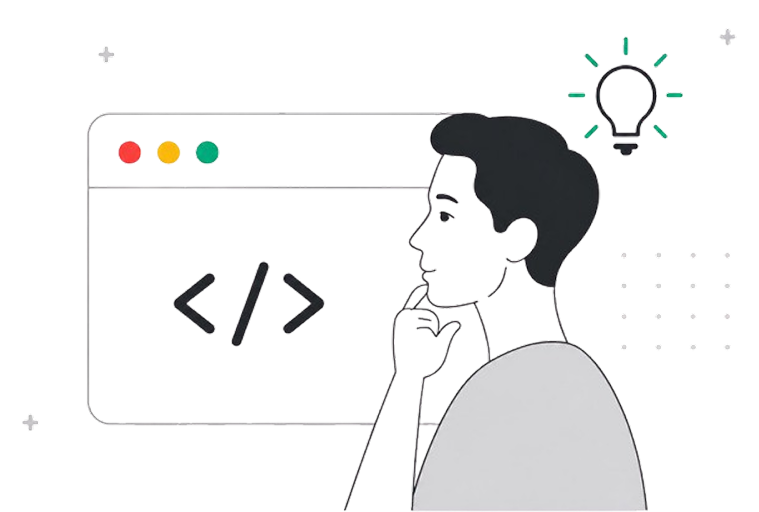
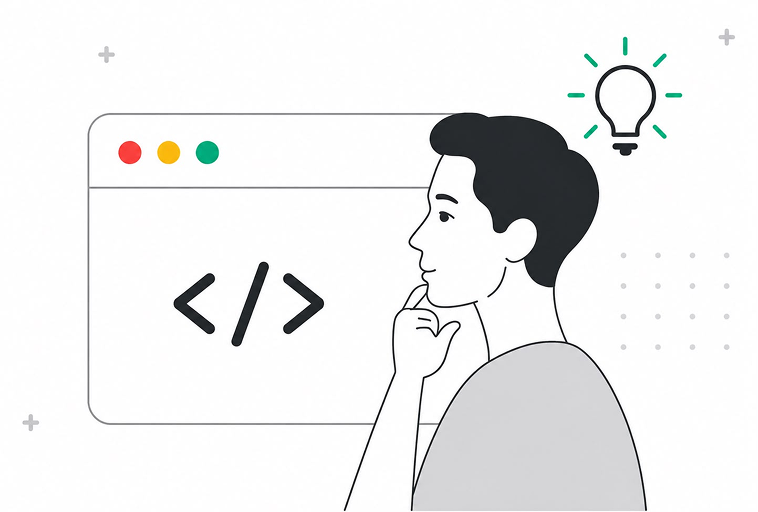
feat: update InstructionsIntroFlow with new images and sound effects

diff --git a/src/components/programming-basic/sections/InstructionsIntroFlow.tsx b/src/components/programming-basic/sections/InstructionsIntroFlow.tsx
@@ -1,19 +1,22 @@
 "use client";
 
 import React, { useState } from "react";
+import Image from "next/image";
 import { Poppins } from "next/font/google";
 import {
   ChevronLeft,
   Bookmark,
   ArrowRight,
-  CheckCircle2,
-  XCircle,
+  Check,
+  X,
   Play,
   Network,
   Sparkles,
+  Sparkle,
 } from "lucide-react";
 import { INSTRUCTIONS_INTRO_SLIDES } from "@/lib/constants/instructionsIntro";
 import { ThemeToggle } from "@/components/ui/theme-toggle";
+import { useSound } from "@/hooks/useSound";
 
 const poppins = Poppins({
   subsets: ["latin"],
@@ -31,7 +34,7 @@ interface InstructionsIntroFlowProps {
 function TeacherIllustration({ compact = false }: { compact?: boolean }) {
   return (
     <div
-      className={`relative w-full rounded-2xl overflow-hidden shadow-sm ${compact ? "h-48 md:h-56" : "aspect-[390/360]"}`}
+      className={`relative w-full rounded-2xl overflow-hidden shadow-sm ${compact ? "h-36 md:h-40" : "aspect-[390/360]"}`}
     >
       {/* eslint-disable-next-line @next/next/no-img-element */}
       <img
@@ -60,6 +63,7 @@ export function InstructionsIntroFlow({
   const [selected, setSelected] = useState<number | null>(null);
   const [checked, setChecked] = useState(false);
   const [bookmarked, setBookmarked] = useState(false);
+  const triggerSound = useSound(true);
 
   const total = INSTRUCTIONS_INTRO_SLIDES.length;
   const slide = INSTRUCTIONS_INTRO_SLIDES[index];
@@ -93,13 +97,24 @@ export function InstructionsIntroFlow({
     if (isQuiz && !checked) {
       if (selected === null) return;
       setChecked(true);
+      triggerSound(isCorrect ? "win" : "lose");
+      return;
+    }
+    if (isQuiz && checked && !isCorrect) {
+      // Wrong answer: let the learner try again instead of moving on.
+      setSelected(null);
+      setChecked(false);
       return;
     }
     goNext();
   };
 
   const primaryLabel =
-    slide.kind === "teacher-quiz" && !checked ? slide.submitLabel : slide.cta;
+    slide.kind === "teacher-quiz" && !checked
+      ? slide.submitLabel
+      : isQuiz && checked && !isCorrect
+        ? "Try Again"
+        : slide.cta;
   const feedbackTitle =
     slide.kind === "teacher-quiz"
       ? isCorrect
@@ -111,11 +126,11 @@ export function InstructionsIntroFlow({
 
   return (
     <main
-      className={`${poppins.className} min-h-screen w-full max-w-full overflow-x-hidden bg-background text-foreground flex flex-col items-center transition-colors duration-200`}
+      className={`${poppins.className} h-screen w-full max-w-full overflow-hidden bg-background text-foreground flex flex-col items-center transition-colors duration-200`}
     >
-      <div className={`w-full max-w-md flex flex-col grow px-4 py-4 ${isQuiz && checked ? "pb-56" : "pb-32"}`}>
-        {/* ── Header (same on every slide) ── */}
-        <header className="flex items-center justify-between gap-2.5 mb-5 select-none">
+      <div className="w-full max-w-md flex flex-col h-full">
+        {/* ── Header (same on every slide) — fixed height, never scrolls or gets covered ── */}
+        <header className="shrink-0 flex items-center justify-between gap-2.5 px-4 pt-4 pb-3 select-none">
           <button
             onClick={goBack}
             className="w-10 h-10 flex items-center justify-center rounded-lg bg-card border border-border text-foreground hover:bg-surface-strong transition-all active:scale-95 cursor-pointer shadow-xs"
@@ -163,8 +178,12 @@ export function InstructionsIntroFlow({
           </div>
         </header>
 
-        {/* ── Body ── */}
-        <div className="grow flex flex-col gap-4 select-none">
+        {/* ── Body — the only part that scrolls, so header/footer are always fully visible ── */}
+        <div
+          className="flex-1 min-h-0 overflow-y-auto px-4 scrollbar-none"
+          style={{ msOverflowStyle: "none" }}
+        >
+        <div className="flex flex-col gap-3 select-none min-h-full pb-3">
           {slide.kind === "cover" && (
             <div className="flex flex-col gap-3 text-center">
               <h1 className="text-2xl md:text-3xl font-semibold tracking-tight leading-tight text-balance">
@@ -172,12 +191,20 @@ export function InstructionsIntroFlow({
                 <span className="text-foreground">{slide.title}</span>
               </h1>
 
-              <div className="relative w-full h-36 bg-card rounded-2xl border border-border flex items-center justify-center overflow-hidden shadow-sm p-3">
-                {/* eslint-disable-next-line @next/next/no-img-element */}
-                <img
-                  src={slide.imageSrc}
+              <div className="relative w-full h-36 flex items-center justify-center overflow-hidden p-3">
+                <Image
+                  src={slide.imageLight}
                   alt=""
-                  className="h-full max-w-full object-contain"
+                  width={759}
+                  height={512}
+                  className="h-full w-auto max-w-full object-contain dark:hidden"
+                />
+                <Image
+                  src={slide.imageDark}
+                  alt=""
+                  width={743}
+                  height={512}
+                  className="hidden h-full w-auto max-w-full object-contain dark:block"
                 />
               </div>
 
@@ -195,17 +222,17 @@ export function InstructionsIntroFlow({
                 </p>
               </div>
 
-              <div className="w-full rounded-2xl bg-[#1A1C22] p-6 flex items-center gap-5 shadow-lg mt-1">
-                <div className="w-16 h-16 shrink-0 flex items-center justify-center">
+              <div className="w-full h-40 rounded-[8px] bg-[#1A1C22] p-6 flex items-center gap-5 shadow-lg mt-1">
+                <div className="w-16 h-40 shrink-0 flex items-center justify-center">
                   {/* eslint-disable-next-line @next/next/no-img-element */}
                   <img
                     src="/images/box.png"
                     alt=""
-                    className="w-full h-full object-contain"
+                    className="w-full h-[150px] object-contain"
                   />
                 </div>
                 <div className="text-left">
-                  <p className="text-sm text-white font-medium">
+                  <p className="text-[14px] text-white font-medium">
                     {slide.revealLabel}
                   </p>
                   <p className="text-sm text-[#BEBEBE] font-medium">about</p>
@@ -233,14 +260,14 @@ export function InstructionsIntroFlow({
 
           {slide.kind === "teacher-quiz" && (
             <>
-              <h1 className="text-2xl md:text-3xl font-semibold tracking-tight leading-tight text-center md:text-left">
+              <h1 className="text-xl md:text-2xl font-semibold tracking-tight leading-tight text-center md:text-left">
                 <span className="text-primary">{slide.highlightWord}</span>{" "}
                 <span className="text-foreground">{slide.title}</span>
               </h1>
 
               <TeacherIllustration compact />
 
-              <div className="flex flex-col gap-3">
+              <div className="flex flex-col gap-2">
                 {slide.options.map((opt, idx) => {
                   const isSelected = selected === idx;
                   const Icon = opt.icon;
@@ -278,20 +305,23 @@ export function InstructionsIntroFlow({
                       key={opt.text}
                       type="button"
                       disabled={checked}
-                      onClick={() => setSelected(idx)}
-                      className={`w-full flex items-center justify-between p-4 rounded-xl border transition-all duration-200 text-left shadow-xs cursor-pointer active:scale-99 ${cardBorder}`}
+                      onClick={() => {
+                        triggerSound("tap");
+                        setSelected(idx);
+                      }}
+                      className={`w-full flex items-center justify-between p-3 rounded-xl border transition-all duration-200 text-left shadow-xs cursor-pointer active:scale-99 ${cardBorder}`}
                     >
-                      <div className="flex items-center gap-3.5 min-w-0 grow">
+                      <div className="flex items-center gap-3 min-w-0 grow">
                         <div
-                          className={`w-10 h-10 rounded-full flex items-center justify-center shrink-0 ${iconWrap}`}
+                          className={`w-9 h-9 rounded-full flex items-center justify-center shrink-0 ${iconWrap}`}
                         >
-                          <Icon className="w-5 h-5" />
+                          <Icon className="w-4 h-4" />
                         </div>
                         <div className="flex flex-col min-w-0 pr-2">
-                          <span className="font-medium text-base leading-tight text-foreground">
+                          <span className="font-medium text-sm leading-tight text-foreground">
                             {opt.text}
                           </span>
-                          {!checked && (
+                          {!(checked && isSelected) && (
                             <span className="text-xs text-muted-foreground font-normal mt-0.5 line-clamp-1">
                               {opt.subtitle}
                             </span>
@@ -300,11 +330,11 @@ export function InstructionsIntroFlow({
                       </div>
                       <div className="shrink-0 pl-2">
                         <div
-                          className={`w-6 h-6 rounded-full border-2 flex items-center justify-center transition-all ${radioStyle}`}
+                          className={`w-5 h-5 rounded-full border-2 flex items-center justify-center transition-all ${radioStyle}`}
                         >
                           {isSelected && (
                             <div
-                              className={`w-3 h-3 rounded-full ${
+                              className={`w-2.5 h-2.5 rounded-full ${
                                 checked && !opt.isCorrect
                                   ? "bg-rose-500"
                                   : "bg-primary"
@@ -366,7 +396,14 @@ export function InstructionsIntroFlow({
               </h1>
 
               <div className="relative w-full h-56 md:h-64 rounded-xl bg-[#1A1C22] flex items-center justify-center overflow-hidden shadow-lg">
-                <div className="w-16 h-16 rounded-full bg-white flex items-center justify-center shadow-xl">
+                {/* eslint-disable-next-line @next/next/no-img-element */}
+                <img
+                  src="/images/vedioImg.png"
+                  alt="What are Instructions? video thumbnail"
+                  className="absolute inset-0 w-full h-full object-cover"
+                />
+                <div className="absolute inset-0 bg-black/30" />
+                <div className="relative w-16 h-16 rounded-full bg-white flex items-center justify-center shadow-xl">
                   <Play className="w-6 h-6 text-primary fill-primary ml-0.5" />
                 </div>
                 <div className="absolute bottom-0 left-0 right-0 h-2.5 bg-black/40" />
@@ -381,44 +418,66 @@ export function InstructionsIntroFlow({
             </>
           )}
         </div>
-      </div>
+        </div>
 
-      {/* ── Footer ── */}
-      <footer className="fixed bottom-0 left-0 right-0 z-40 flex justify-center bg-gradient-to-t from-background via-background to-transparent pt-4 pb-4 px-4 backdrop-blur-xs">
-        <div className="w-full max-w-md flex flex-col gap-3">
+        {/* ── Footer — shrink-0, in normal flow, so it can never overlap scrollable content above it ── */}
+        <footer className="shrink-0 px-4 pt-3 pb-4 bg-background">
+          <div className="w-full flex flex-col gap-3">
           {isQuiz && checked && selectedOption && (
             <div
-              className={`w-full rounded-2xl p-4 border transition-all duration-300 animate-pop-in flex items-center justify-between gap-3 shadow-xl ${
-                isCorrect
-                  ? "bg-secondary border-primary/40"
-                  : "bg-[#fff1f2] dark:bg-[#1f090d] border-[#fecdd3] dark:border-[#881337]"
-              }`}
+              className="w-full rounded-xl p-3.5 flex items-center justify-between gap-2 animate-pop-in overflow-hidden"
+              style={{
+                background: isCorrect
+                  ? "linear-gradient(180deg, rgba(1,161,127,0.16) 0%, rgba(255,255,255,0) 98.7%)"
+                  : "linear-gradient(180deg, rgba(225,29,72,0.16) 0%, rgba(255,255,255,0) 98.7%)",
+              }}
             >
-              <div className="flex items-start gap-2.5 min-w-0">
-                {isCorrect ? (
-                  <CheckCircle2 className="w-6 h-6 text-primary shrink-0 mt-0.5" />
-                ) : (
-                  <XCircle className="w-6 h-6 text-rose-600 dark:text-rose-400 shrink-0 mt-0.5" />
-                )}
-                <div className="min-w-0">
+              <div className="min-w-0">
+                <div className="flex items-center gap-2.5 mb-1">
+                  <div
+                    className={`w-7 h-7 rounded-full flex items-center justify-center shrink-0 ${
+                      isCorrect ? "bg-primary" : "bg-rose-600 dark:bg-rose-500"
+                    }`}
+                  >
+                    {isCorrect ? (
+                      <Check className="w-3.5 h-3.5 text-white" strokeWidth={3} />
+                    ) : (
+                      <X className="w-3.5 h-3.5 text-white" strokeWidth={3} />
+                    )}
+                  </div>
                   <h3
-                    className={`text-base font-semibold leading-tight ${isCorrect ? "text-primary" : "text-rose-600 dark:text-rose-400"}`}
+                    className={`text-base font-semibold leading-none ${isCorrect ? "text-primary" : "text-rose-600 dark:text-rose-400"}`}
                   >
                     {feedbackTitle}
                   </h3>
-                  <p
-                    className={`text-xs font-medium leading-snug mt-0.5 ${isCorrect ? "text-secondary-foreground/90" : "text-rose-700/90 dark:text-rose-300/90"}`}
-                  >
-                    {feedbackBody}
-                  </p>
                 </div>
+                <p
+                  className={`text-xs font-medium leading-[1.4] ${isCorrect ? "text-primary" : "text-rose-600 dark:text-rose-400"}`}
+                >
+                  {feedbackBody}
+                </p>
               </div>
-              {/* eslint-disable-next-line @next/next/no-img-element */}
-              <img
-                src="/images/sliceAnswer.png"
-                alt=""
-                className="w-16 h-16 shrink-0 object-contain animate-bounce-slow"
-              />
+
+              <div className="relative w-27.5 h-21 shrink-0">
+                <Sparkle
+                  className="absolute w-3.5 h-3.5 text-amber-400 fill-amber-400"
+                  style={{ left: 92, top: 0 }}
+                />
+                <Sparkle
+                  className="absolute w-3 h-3 text-[#ABA8FC] fill-[#ABA8FC]"
+                  style={{ left: 0, top: 49 }}
+                />
+                <span className="absolute w-1.5 h-1.5 rounded-full bg-[#ABA8FC]" style={{ left: 2, top: 22 }} />
+                <span className="absolute w-1.5 h-1.5 rounded-full bg-[#FF8585]" style={{ left: 0, top: 25 }} />
+                <span className="absolute w-1.5 h-1.5 rounded-full bg-[#FF8585]" style={{ left: 106, top: 58 }} />
+                {/* eslint-disable-next-line @next/next/no-img-element */}
+                <img
+                  src="/images/sliceAnswer.png"
+                  alt=""
+                  className="absolute w-20.5 h-19.75 object-contain -scale-x-100 animate-bounce-slow"
+                  style={{ left: 20, top: 5 }}
+                />
+              </div>
             </div>
           )}
 
@@ -437,8 +496,9 @@ export function InstructionsIntroFlow({
             <span>{primaryLabel}</span>
             <ArrowRight className="w-5 h-5" />
           </button>
-        </div>
-      </footer>
+          </div>
+        </footer>
+      </div>
     </main>
   );
 }

diff --git a/src/lib/constants/instructionsIntro.ts b/src/lib/constants/instructionsIntro.ts
@@ -1,5 +1,5 @@
 import { LucideIcon } from "lucide-react";
-import { HelpCircle, Megaphone } from "lucide-react";
+import { HelpCircle, BookOpen } from "lucide-react";
 
 export interface QuizOption {
   text: string;
@@ -22,7 +22,8 @@ export type InstructionsSlide =
       kind: "cover";
       highlightWord: string;
       title: string;
-      imageSrc: string;
+      imageLight: string;
+      imageDark: string;
       lines: string[];
       highlightLine: string;
       revealLabel: string;
@@ -71,7 +72,8 @@ export const INSTRUCTIONS_INTRO_SLIDES: InstructionsSlide[] = [
     kind: "cover",
     highlightWord: "Programmer",
     title: "is a problem solver.",
-    imageSrc: "/images/thinkingBlack.png",
+    imageLight: "/images/thinkingWhite.png",
+    imageDark: "/images/thinkingBlack.png",
     lines: ["Before we write code,", "let's learn how"],
     highlightLine: "programmer think.",
     revealLabel: "Tap to reveal",
@@ -98,7 +100,7 @@ export const INSTRUCTIONS_INTRO_SLIDES: InstructionsSlide[] = [
       {
         text: "Giving Instruction",
         subtitle: "Teacher is giving an instruction to the class.",
-        icon: Megaphone,
+        icon: BookOpen,
         isCorrect: true,
       },
     ],
